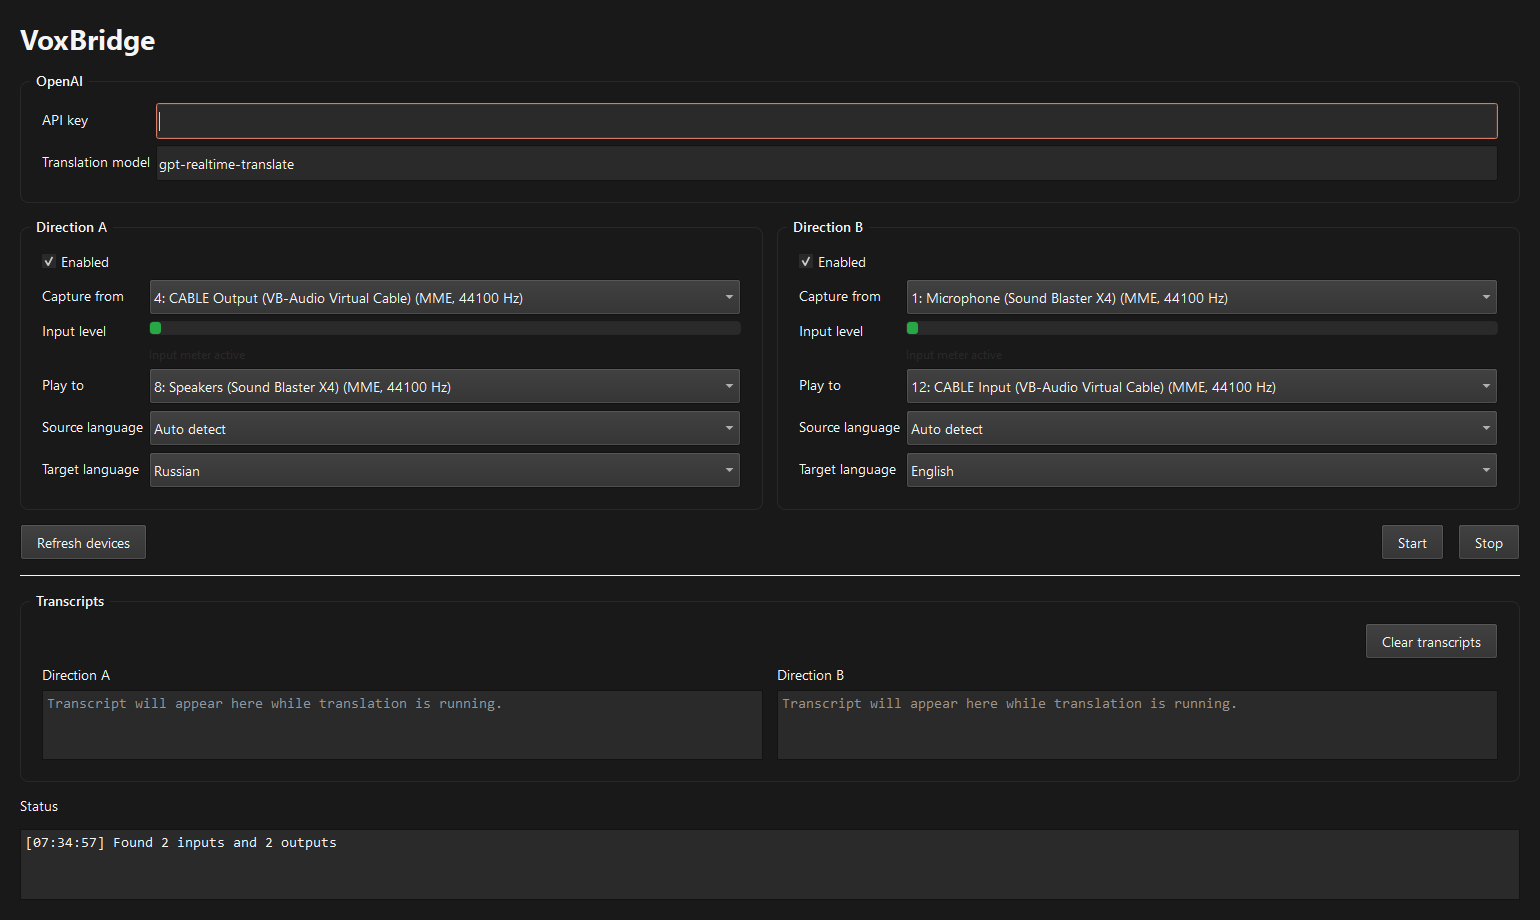
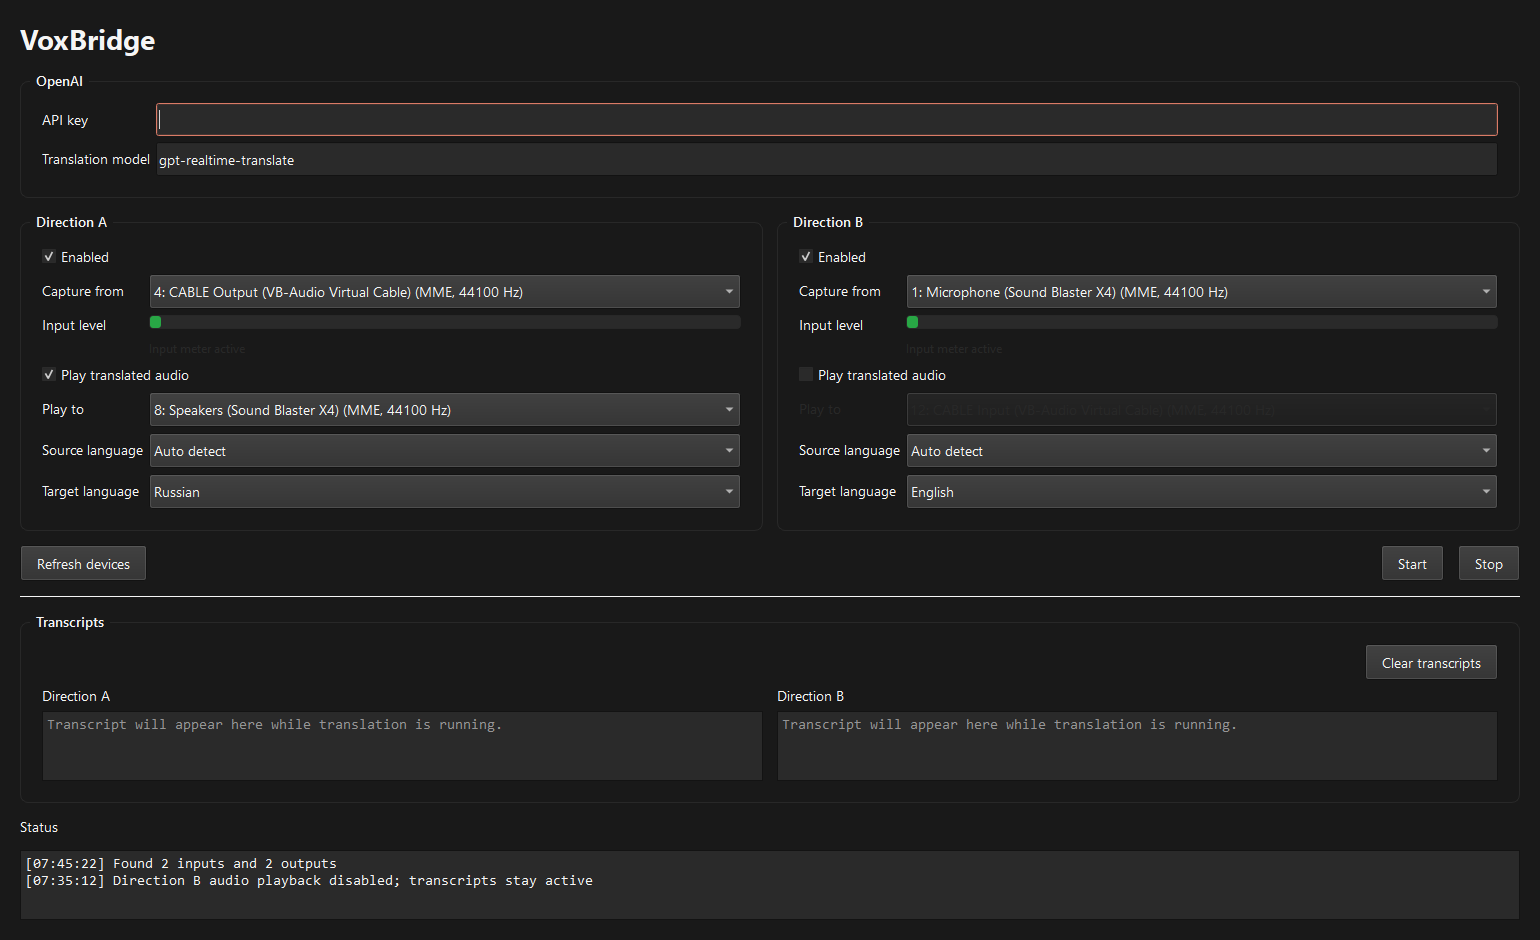
feat: add subtitle-only audio toggle

diff --git a/voxbridge/app.py b/voxbridge/app.py
@@ -113,8 +113,11 @@ class RouteWidget(QGroupBox):
         self.route_name = route_name
         self.enabled = QCheckBox("Enabled")
         self.enabled.setChecked(True)
+        self.audio_output_enabled = QCheckBox("Play translated audio")
+        self.audio_output_enabled.setChecked(True)
         self.input_device = QComboBox()
         self.output_device = QComboBox()
+        self.output_label = QLabel("Play to")
         self.source_language = QComboBox()
         self.target_language = QComboBox()
         self.level_meter = QProgressBar()
@@ -134,12 +137,15 @@ class RouteWidget(QGroupBox):
         layout.addRow("Capture from", self.input_device)
         layout.addRow("Input level", self.level_meter)
         layout.addRow("", self.level_status)
-        layout.addRow("Play to", self.output_device)
+        layout.addRow(self.audio_output_enabled)
+        layout.addRow(self.output_label, self.output_device)
         layout.addRow("Source language", self.source_language)
         layout.addRow("Target language", self.target_language)
         self.level_monitor.level_changed.connect(self.level_meter.setValue)
         self.level_monitor.state_changed.connect(self.level_status.setText)
         self.input_device.currentIndexChanged.connect(self.restart_meter)
+        self.audio_output_enabled.toggled.connect(self._sync_output_controls)
+        self._sync_output_controls()
 
     def set_devices(self, inputs: list[AudioDevice], outputs: list[AudioDevice]) -> None:
         selected_input = self.input_device.currentData()
@@ -172,21 +178,32 @@ class RouteWidget(QGroupBox):
                 name=self.route_name,
                 enabled=False,
                 input_device=int(self.input_device.currentData() or -1),
-                output_device=int(self.output_device.currentData() or -1),
+                output_device=(
+                    int(self.output_device.currentData())
+                    if self.output_device.currentData() is not None
+                    else None
+                ),
+                audio_output_enabled=self.audio_output_enabled.isChecked(),
                 source_language=str(self.source_language.currentData()),
                 target_language=str(self.target_language.currentData()),
             )
 
         if self.input_device.currentData() is None:
             raise ValueError(f"{self.route_name}: select an input device")
-        if self.output_device.currentData() is None:
+        audio_output_enabled = self.audio_output_enabled.isChecked()
+        if audio_output_enabled and self.output_device.currentData() is None:
             raise ValueError(f"{self.route_name}: select an output device")
 
         return RouteConfig(
             name=self.route_name,
             enabled=enabled,
             input_device=int(self.input_device.currentData()),
-            output_device=int(self.output_device.currentData()),
+            output_device=(
+                int(self.output_device.currentData())
+                if audio_output_enabled and self.output_device.currentData() is not None
+                else None
+            ),
+            audio_output_enabled=audio_output_enabled,
             source_language=str(self.source_language.currentData()),
             target_language=str(self.target_language.currentData()),
         )
@@ -198,6 +215,11 @@ class RouteWidget(QGroupBox):
         index = combo.findData(value)
         if index >= 0:
             combo.setCurrentIndex(index)
+
+    def _sync_output_controls(self) -> None:
+        enabled = self.audio_output_enabled.isChecked()
+        self.output_label.setEnabled(enabled)
+        self.output_device.setEnabled(enabled)
 
 
 class TranscriptWidget(QGroupBox):
@@ -374,6 +396,13 @@ class MainWindow(QMainWindow):
             }
             QComboBox, QLineEdit {
                 min-height: 30px;
+            }
+            QComboBox:disabled {
+                color: palette(mid);
+                background: palette(window);
+            }
+            QLabel:disabled {
+                color: palette(mid);
             }
             QProgressBar {
                 border: 1px solid palette(mid);

diff --git a/voxbridge/bridge.py b/voxbridge/bridge.py
@@ -26,7 +26,11 @@ class TranslationRoute:
         self.route = route
         self.status = status
         self.capture = MicrophoneCapture(route.input_device)
-        self.output = SpeakerOutput(route.output_device)
+        self.output = (
+            SpeakerOutput(route.output_device)
+            if route.audio_output_enabled and route.output_device is not None
+            else None
+        )
         self.translator = RealtimeTranslator(
             api_key=api_key,
             model=model,
@@ -39,17 +43,27 @@ class TranslationRoute:
     async def run(self, stop_event: asyncio.Event) -> None:
         self.status(f"{self.route.name}: starting audio devices")
         self.capture.start()
-        self.output.start()
+        if self.output is not None:
+            self.output.start()
+            on_audio = self.output.play_api_audio
+        else:
+            self.status(f"{self.route.name}: audio playback disabled")
+            on_audio = self._discard_audio
         try:
             await self.translator.run(
                 self.capture.frames(),
-                self.output.play_api_audio,
+                on_audio,
                 stop_event,
             )
         finally:
             self.capture.close()
-            self.output.close()
+            if self.output is not None:
+                self.output.close()
             self.status(f"{self.route.name}: stopped")
+
+    @staticmethod
+    async def _discard_audio(data: bytes) -> None:
+        _ = data
 
 
 class BridgeRunner:

diff --git a/voxbridge/config.py b/voxbridge/config.py
@@ -28,7 +28,8 @@ class RouteConfig:
     name: str
     enabled: bool
     input_device: int
-    output_device: int
+    output_device: int | None
+    audio_output_enabled: bool
     source_language: str
     target_language: str
 

diff --git a/README.ru.md b/README.ru.md
@@ -20,6 +20,7 @@ VoxBridge захватывает звук с одного аудиоустрой
 - **Двусторонний перевод**: Запускайте два независимых маршрута перевода одновременно.
 - **Низкая задержка**: Работает на базе WebSocket потока OpenAI Realtime Translation API.
 - **Автоматическое определение языка**: Исходный язык распознается автоматически.
+- **Режим только субтитров**: Отключайте озвучку перевода отдельно для каждого направления.
 - **Локальная маршрутизация звука**: Глубокая интеграция с PortAudio/sounddevice для перенаправления аудиопотоков.
 
 ---

diff --git a/README.md b/README.md
@@ -77,6 +77,7 @@ For a typical English ↔ Russian call:
 - **Bi-directional Translation**: Run two independent translation routes simultaneously.
 - **Low Latency streaming**: Powered by the OpenAI Realtime Translation WebSocket API.
 - **Automatic Language Detection**: Translates source language seamlessly.
+- **Subtitle-only mode**: Disable translated audio playback per direction and use transcripts only.
 - **Local Audio Routing**: Deep integration with PortAudio/sounddevice to pipe audio anywhere.
 - **Standalone Executables**: Download `.exe` (Windows), `.app` (macOS), or `.tar.gz` (Linux) — no Python needed.
 
